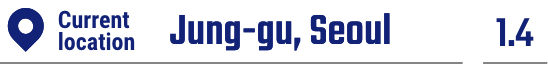
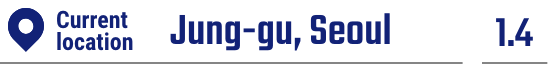
Changed styles.

diff --git a/assets/css/style.css b/assets/css/style.css
@@ -193,8 +193,7 @@ audio {
 }
 
 .wrapper .board1 div {
-    width: 125px;
-    height: 52px;
+
 }
 
 .wrapper .board1 div:last-child {
@@ -202,12 +201,16 @@ audio {
 }
 
 .wrapper .board1 .eqTime {
-    background: url(../images/eqTime1.png) center no-repeat;
+    width: 124px;
+    height: 53px;
+    background: url(../images/eqTime1.png) left center no-repeat;
     background-size: cover;
 }
 
 .wrapper .board1 .location {
-    background: url(../images/location1.png) center no-repeat;
+    width: 124px;
+    height: 52px;
+    background: url(../images/location1.png) left center no-repeat;
     background-size: cover;
 }
 
@@ -347,12 +350,20 @@ audio {
 }
 
 /*----- P1 -----*/
+
 .wrapper.p1 .board1 .eqTime {
-    background-image: url(../images/eqTime2.png) no-repeat;
+    width: 124px;
+    height: 48px;
+    background: url(../images/eqTime2.png) left center no-repeat;
+    background-size: cover;
 }
 
 .wrapper.p1 .board1 .location {
-    background-image: url(../images/location2.png) no-repeat;
+    width: 124px;
+    height: 48px;
+    background: url(../images/location2.png) left center no-repeat;
+    background-size: cover;
+    margin-top: 12px;
 }
 
 /*----- SVG circle radio P2-----*/
@@ -435,7 +446,7 @@ audio {
     font-weight: bold;
     position: absolute;
     right: 51px;
-    top: 5px;
+    top: 6px;
 }
 
 .wrapper .board2 > div.estTime > div.countdown {
@@ -447,8 +458,8 @@ audio {
     letter-spacing: -0.9px;
     text-align: center;
     position: absolute;
-    right: 43px;
-    top: 57px;
+    right: 42px;
+    top: 58px;
 }
 
 .wrapper .board2 > div > div.title-sec,
@@ -491,7 +502,7 @@ audio {
     display: block;
     width: 94px;
     text-align: center;
-    padding: 5px 0 0 22px
+    padding: 4px 0 0 22px
     
         
 }
@@ -566,25 +577,25 @@ audio {
 
 .wrapper.p4 > .locations div {
     position: relative;
-    width: 274px;
+    width: 273px;
     height: 33px;
-    background-size: cover;
+    background-size: 273px 33px;
+    background-repeat: no-repeat;
+    
 }
 
 .wrapper.p4 > .locations div.pin1 {
-    width: 275px;
+    background-size: 273.7px 33px;
     background-image: url(../images/p4pin1_location.png);
 
 }
 
 .wrapper.p4 > .locations div.pin2 {
     background-image: url(../images/p4pin2_location.png);
-
 }
 
 .wrapper.p4 > .locations div.pin3 {
     background-image: url(../images/p4pin3_location.png);
-
 }
 
 .wrapper.p4 > .buttons {
@@ -630,17 +641,14 @@ audio {
 
 .wrapper.p4.second > .locations div.pin1 {
     background-image: url(../images/p4second_pin1_location.png);
-    background-size: cover;
 }
 
 .wrapper.p4.second > .locations div.pin2 {
     background-image: url(../images/p4second_pin2_location.png);
-    background-size: cover;
 }
 
 .wrapper.p4.second > .locations div.pin3 {
     background-image: url(../images/p4second_pin3_location.png);
-    background-size: cover;
 }
 
 /*----- P5 -----*/

diff --git a/article.html b/article.html
@@ -43,7 +43,7 @@
                 Children in affected schools evacuated classrooms quickly under their teachers’ guidance.
                 Aftershocks continue to shake Pohang.
                 The Pohang city government and fire department are surveying the extent of the damage.
-                <span class="reporter"> leesang@kbs.co.kr</span>
+                <br><span class="reporter"> leesang@kbs.co.kr</span>
             </p>
         </article>
         <div class="reply">Comments (3)</div>

diff --git a/process_firstEQ.html b/process_firstEQ.html
@@ -22,7 +22,7 @@
         <header>
             <nav id="main_menu">
                 <a class="home" href="./index.html"></a>
-                <h1 class="title">Strong Earthquake simulation</h1>
+                <h1 class="title">Strong Earthquake Simulation</h1>
                 <a class="setting" href="./setting.html"></a>
             </nav>
         </header>

diff --git a/p4_second.html b/p4_second.html
@@ -44,7 +44,7 @@
         </div>
         <div class="buttons animated fadeIn slow">
             <button class="news unable">Breaking news</button>
-            <button class="sns">Social media</button>
+            <button class="sns" onclick="toSNS()">Social media</button>
         </div>
     </div>
     <!-- Custom JS -->

diff --git a/p4.html b/p4.html
@@ -44,7 +44,7 @@
         </div>
         <div class="buttons animated fadeIn slow">
             <button class="news unable">Breaking news</button>
-            <button class="sns">Social media</button>
+            <button class="sns" onclick="toSNS()">Social media</button>
         </div>
     </div>
     <script>
